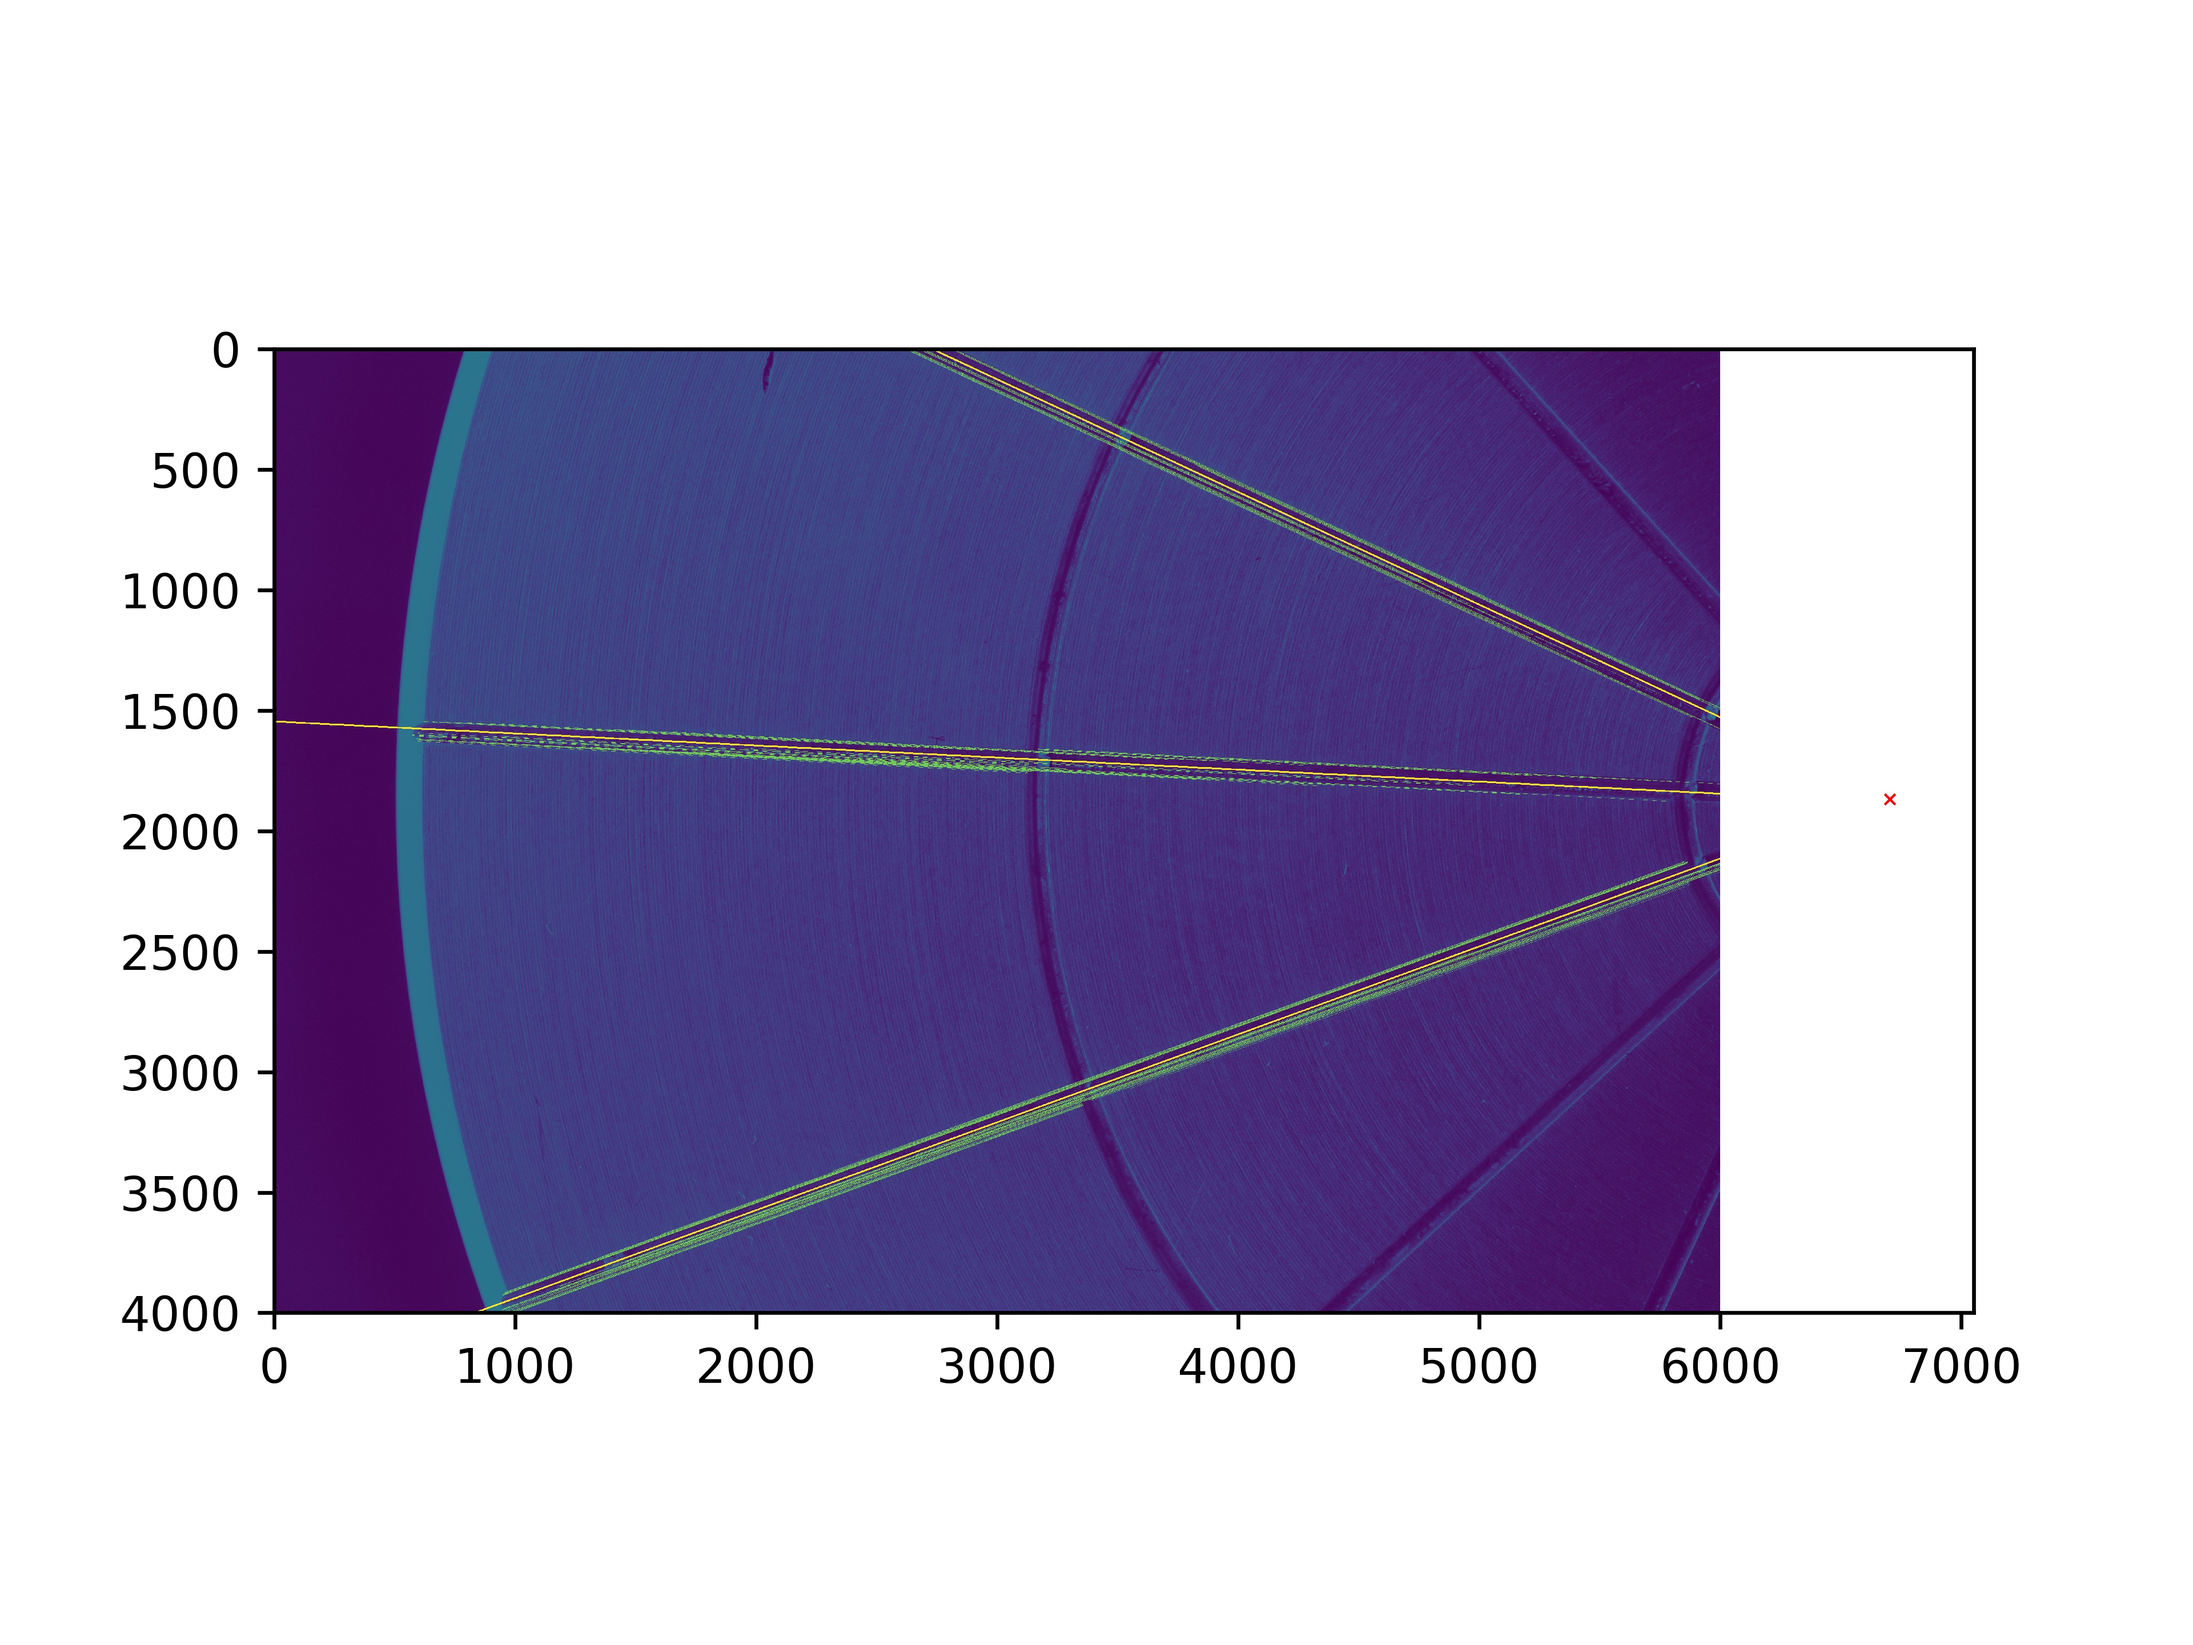
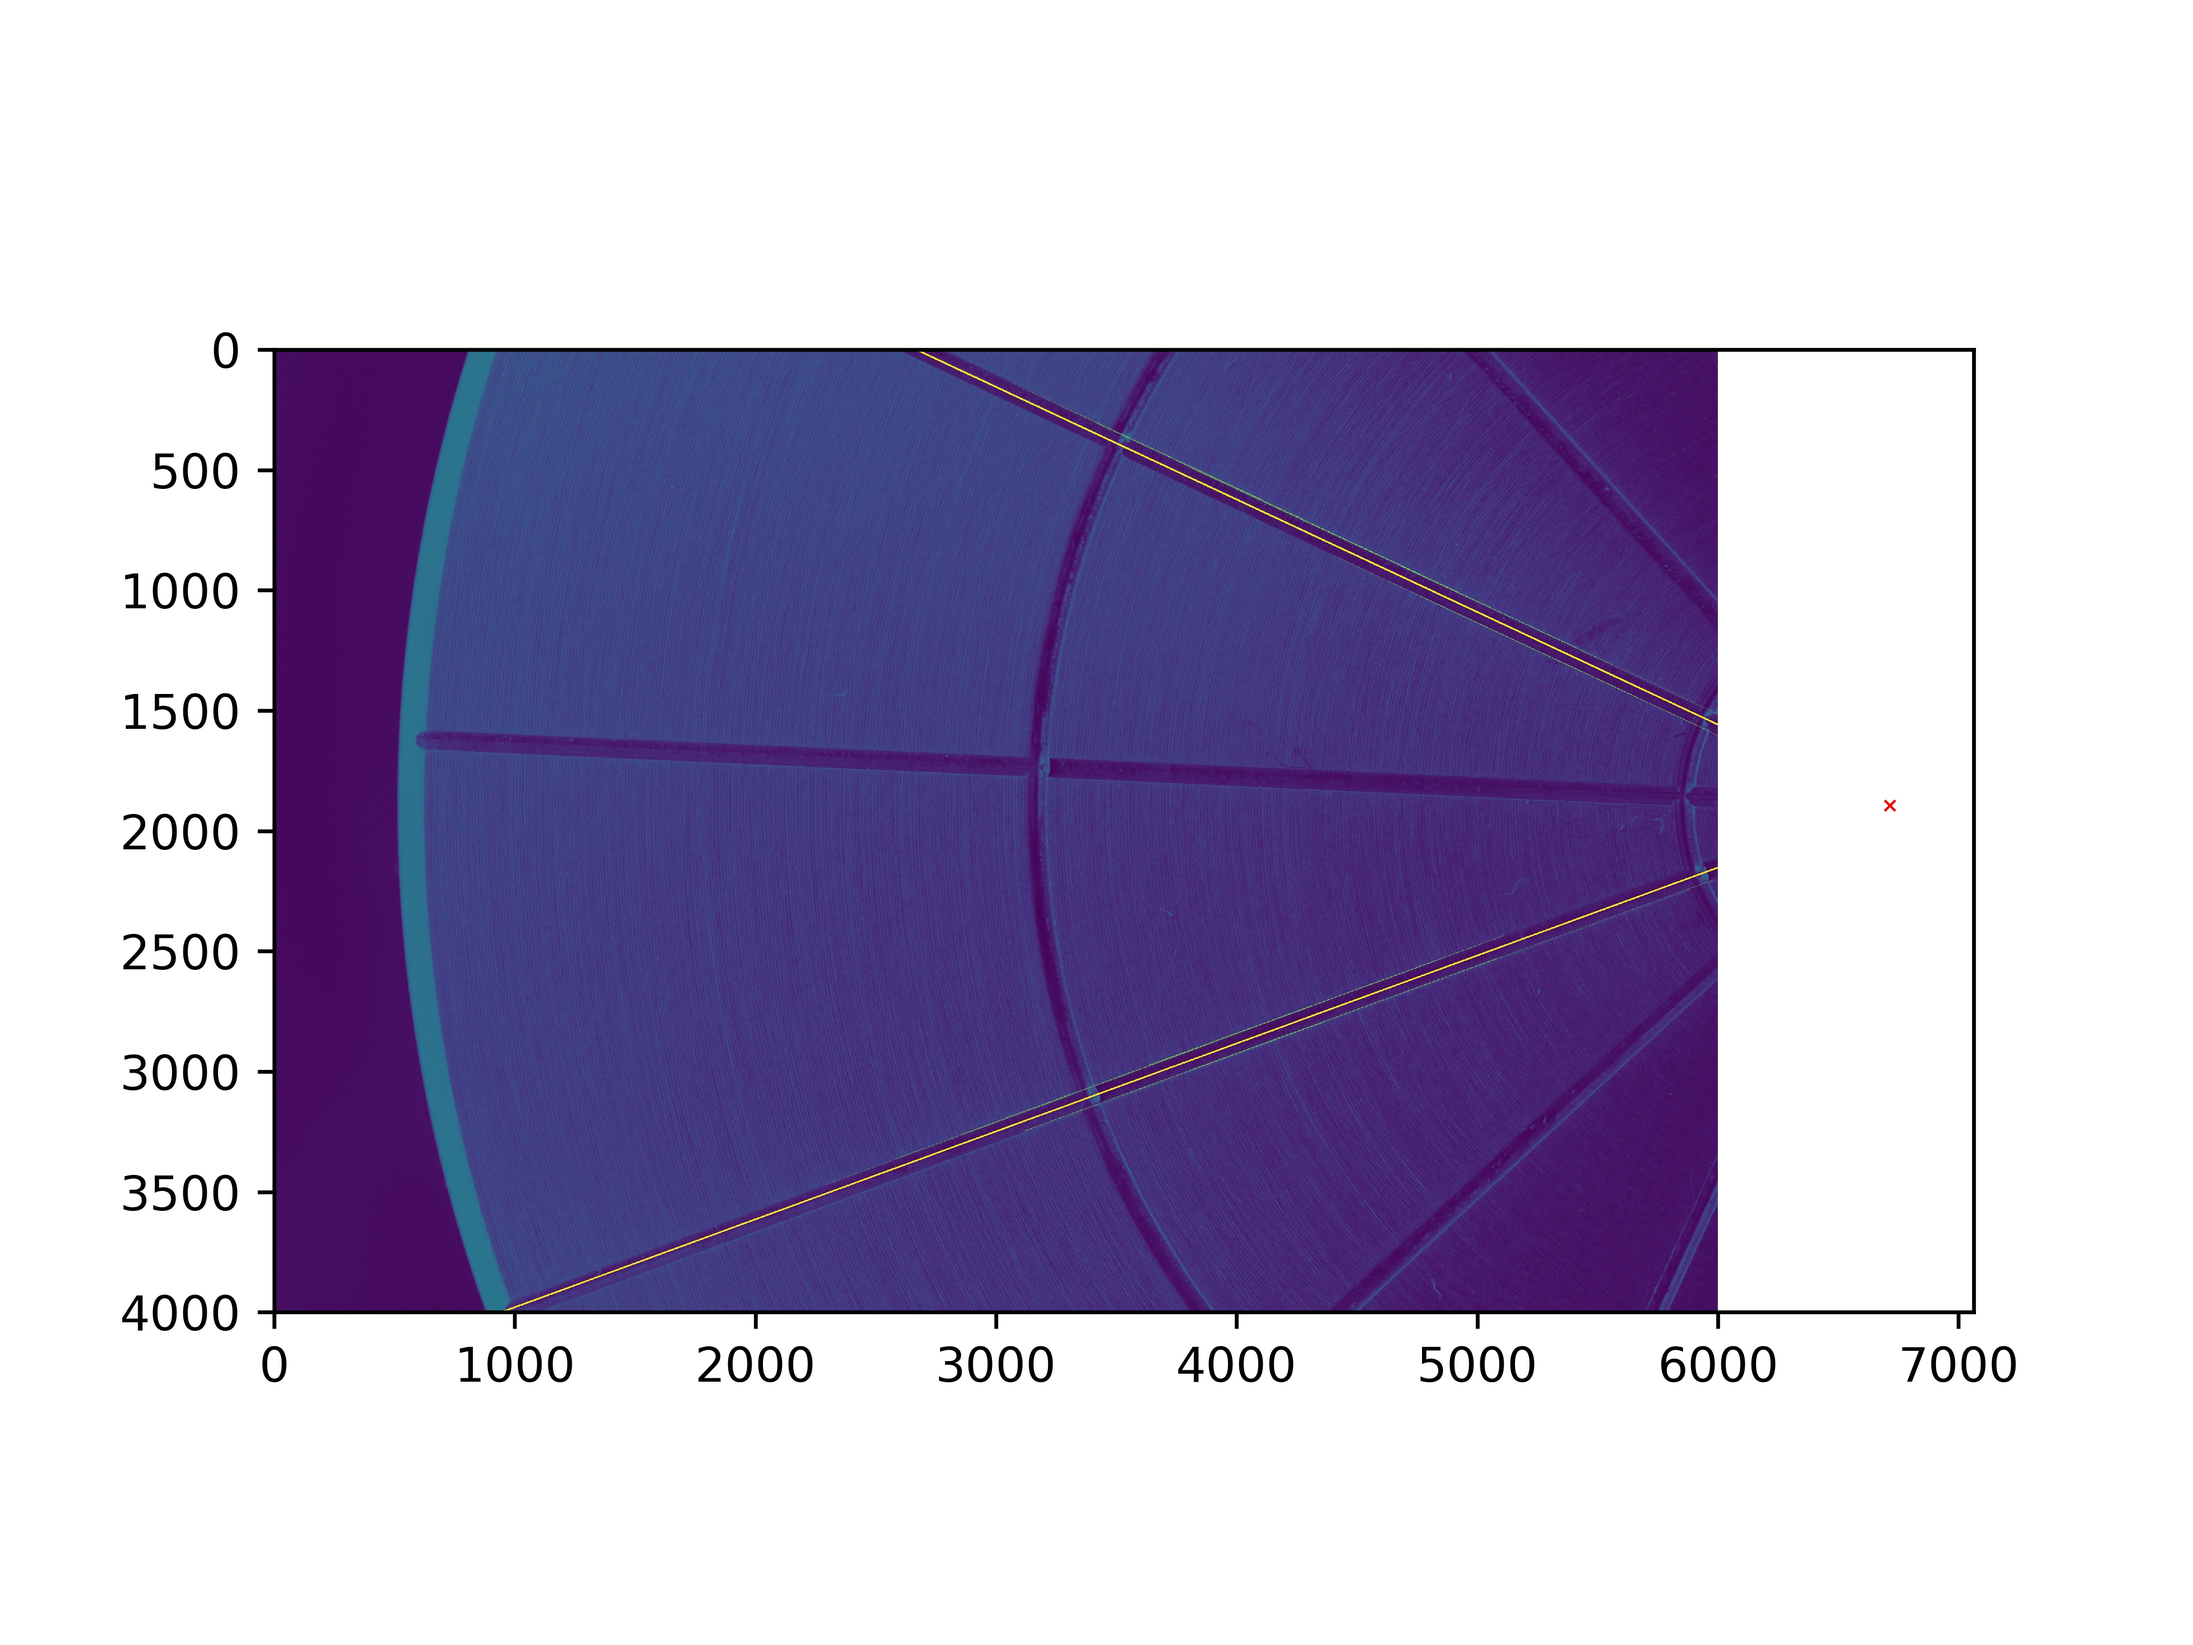
Calibration minor fixes

diff --git a/sectorImage/core/calibration.py b/sectorImage/core/calibration.py
@@ -10,6 +10,7 @@ from operator import attrgetter
 
 from toolkit.line import Line
 from toolkit.intersection import Intersection
+from toolkit.skeleton import find_skeleton
 
 import itertools
 
@@ -56,28 +57,44 @@ class Calibrator:
         im = ndimage.imread(fn, flatten=True)
         # Blur out fast features
         print('Blurring')
-        gaussian = ndimage.gaussian_filter(im, sigma=3)
+        gaussian = ndimage.gaussian_filter(im, sigma=5)
         # Edge detection filter
         print('Prewitt Filtering')
         derivative = np.abs(ndimage.prewitt(gaussian, axis=0))
+        derivative *= 255 / np.max(derivative)
 
         # Binary thresholding
         print('Thresholding')
-        ret, thresh1 = cv2.threshold(derivative.astype('uint8'), 5, 255, cv2.THRESH_BINARY)
+        ret, thresh = cv2.threshold(derivative.astype('uint8'), 70, 255, cv2.THRESH_BINARY)
         # Morphological opening
         print('Morphology')
-        op = ndimage.morphology.binary_opening(thresh1, iterations=2)
+        skel = find_skeleton(thresh)
+
+        #op = ndimage.morphology.binary_opening(thresh, iterations=5)
+        #op = ndimage.morphology.binary_closing(op, iterations=5)
 
         # Convert to int
-        op = op.astype('uint8')
+        op = skel.astype('uint8')
         if plot:
             draw = (im / np.max(im) * 100).astype('uint8')
 
+        preplot = False
+        if preplot and plot:
+            print('Plotting')
+            fig = plt.figure()
+            ax = fig.add_subplot(111)
+            ax.imshow(op)
+            fig.savefig('img/out/houghTransform.jpg', dpi=600)
         # Get probabilistic Hough transformation
         print('Computing Hough transform')
-        minLineLength = 1500
-        maxLineGap = 10
-        lines = cv2.HoughLinesP(op, 1, np.pi / 180, 100, minLineLength=minLineLength, maxLineGap=maxLineGap)
+        minLineLength = 1000
+        maxLineGap = 200
+        lines = cv2.HoughLinesP(op,
+                                rho=1,
+                                theta=np.pi / 180,
+                                threshold=1,
+                                minLineLength=minLineLength,
+                                maxLineGap=maxLineGap)
         print('Number of detected lines:', str(len(lines)))
         if plot:
             for line in lines:
@@ -136,8 +153,8 @@ class Calibrator:
         m_bin, m_edges = np.histogram(ms, bins='auto')
         avg_lines = []
         for i, b in enumerate(m_bin):
-            # Take only the 4 largest ridges
-            if b >= sorted(m_bin, reverse=True)[2] and b > 0:
+            # Take only the 3 largest ridges
+            if b >= sorted(m_bin, reverse=True)[2] and b > 1:
                 # Collect the lines in the histogram bins
                 ln_bin = []
                 e_low = m_edges[i]
@@ -235,7 +252,7 @@ class Calibrator:
 if __name__ == '__main__':
 
     fns = ['img/src/calibration/cpt' + str(i) + '.jpg' for i in range(1, 17)]
-    fns = ['img/src/calibration/cpt1.jpg']
+    fns = ['img/src/calibration/cpt4.jpg']
     # fns = ['../hardware/cpt' + str(i) + '.jpg' for i in range(1, 17)]
 
     c = Calibrator(fns)

diff --git a/sectorImage/core/toolkit/skeleton.py b/sectorImage/core/toolkit/skeleton.py
@@ -1,0 +1,21 @@
+import numpy as np
+import cv2
+
+
+def find_skeleton(img):
+    # Initialize arrays to do computation in place
+    skeleton = np.zeros(img.shape, np.uint8)
+    eroded = np.zeros(img.shape, np.uint8)
+    temp = np.zeros(img.shape, np.uint8)
+
+    kernel = cv2.getStructuringElement(cv2.MORPH_CROSS, (3, 3))
+
+    while(True):
+        cv2.erode(img, kernel, eroded)
+        cv2.dilate(eroded, kernel, temp)
+        cv2.subtract(img, temp, temp)
+        cv2.bitwise_or(skeleton, temp, skeleton)
+        img, eroded = eroded, img  # Swap instead of copy
+
+        if cv2.countNonZero(img) == 0:
+            return skeleton
